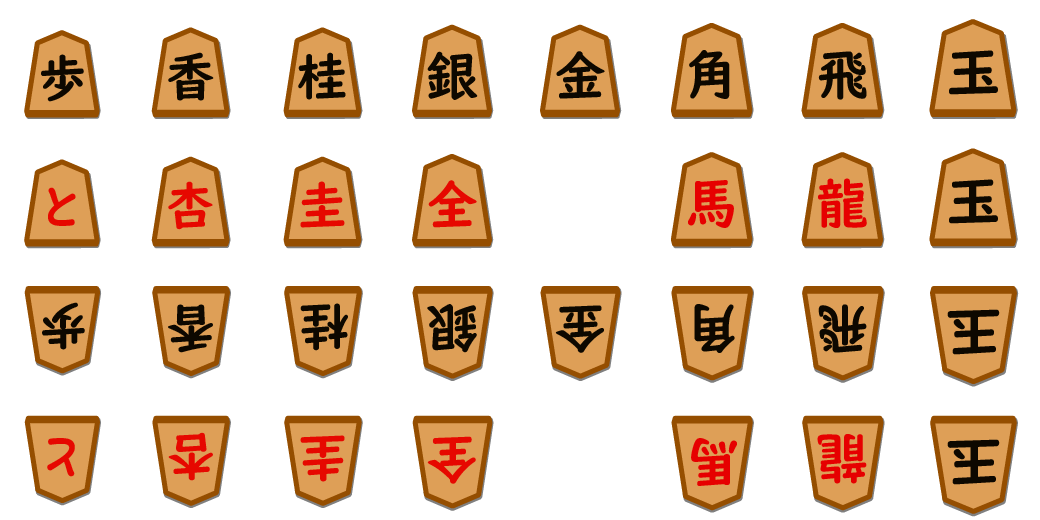
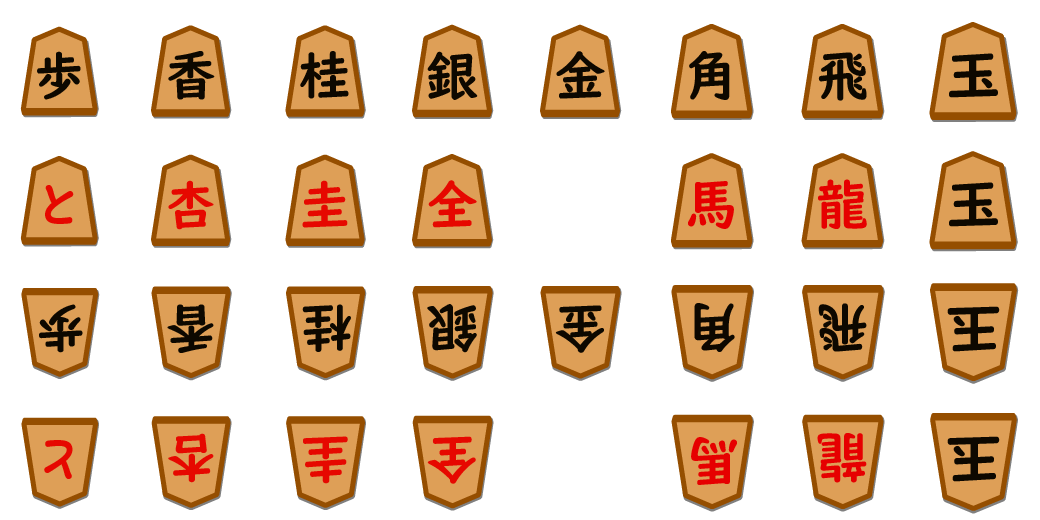
fix: piece sprite centering and updated assets
- PieceSprite: per-piece offsetX/offsetY in spriteMap for centering (default offsetX 8)
- Replace pieces.png with user-provided sprite (position tweaks)
- ShogiBoard: keep PIECE_OFFSET_Y_OWN_PX / PIECE_OFFSET_Y_OPPONENT_PX for vertical offset

diff --git a/apps/web/src/components/PieceSprite.tsx b/apps/web/src/components/PieceSprite.tsx
@@ -9,25 +9,25 @@ const SPRITE_URL = "/images/pieces.png";
 
 // pieces.png layout (130px tiles, 8 cols × 4 rows)
 //   row 0: viewer-side unpromoted   [P, L, N, S, G, B, R, K]
-//   row 1: viewer-side promoted     [+P, +L, +N, +S, +B, +R, (col6), (col7)] と杏圭全馬龍
-//   row 2: opponent-side unpromoted [same order]
-//   row 3: opponent-side promoted   [same order]
-// Rows 2/3 are dedicated gote (inverted) sprites; no rotation needed when orientationMode="sprite".
-const spriteMap: Record<string, { row: 0 | 1; col: number }> = {
-  P: { row: 0, col: 0 },
-  L: { row: 0, col: 1 },
-  N: { row: 0, col: 2 },
-  S: { row: 0, col: 3 },
-  G: { row: 0, col: 4 },
-  B: { row: 0, col: 5 },
-  R: { row: 0, col: 6 },
-  K: { row: 0, col: 7 },
-  "+P": { row: 1, col: 0 },
-  "+L": { row: 1, col: 1 },
-  "+N": { row: 1, col: 2 },
-  "+S": { row: 1, col: 3 },
-  "+B": { row: 1, col: 4 },
-  "+R": { row: 1, col: 5 },
+//   row 1: viewer-side promoted     [+P, +L, +N, +S, +B, +R, (col6), (col7)]
+//   row 2: opponent-side unpromoted / row 3: opponent-side promoted
+// offsetX: タイル内で駒を右にずらす量(px)。正で右。offsetY: タイル内で駒を上にずらす量(px)。正で上。
+type SpriteEntry = { row: 0 | 1; col: number; offsetX?: number; offsetY?: number };
+const spriteMap: Record<string, SpriteEntry> = {
+  P: { row: 0, col: 0, offsetX: -5, offsetY: 0 },
+  L: { row: 0, col: 1, offsetX: -3, offsetY: 0 },
+  N: { row: 0, col: 2, offsetX: 1, offsetY: 0 },
+  S: { row: 0, col: 3, offsetX: -2, offsetY: 0 },
+  G: { row: 0, col: 4, offsetX: -4, offsetY: 0 },
+  B: { row: 0, col: 5, offsetX: -2, offsetY: 0 },
+  R: { row: 0, col: 6, offsetX: -2, offsetY: 0 },
+  K: { row: 0, col: 7, offsetX: -1, offsetY: 0 },
+  "+P": { row: 1, col: 0, offsetX: -5, offsetY: 0 },
+  "+L": { row: 1, col: 1, offsetX: -3, offsetY: 0 },
+  "+N": { row: 1, col: 2, offsetX: 1, offsetY: 0 },
+  "+S": { row: 1, col: 3, offsetX: -2, offsetY: 0 },
+  "+B": { row: 1, col: 4, offsetX: -2, offsetY: 0 },
+  "+R": { row: 1, col: 5, offsetX: -2, offsetY: 0 },
 };
 
 const PLAYER_ROW_OFFSET: Record<"player" | "opponent", 0 | 2> = {
@@ -85,15 +85,16 @@ export const PieceSprite: React.FC<PieceSpriteProps> = ({
 
   const norm = isPromoted ? `+${baseChar.toUpperCase()}` : baseChar.toUpperCase();
   const fallbackKey = baseChar.toUpperCase();
-  const { row: baseRow, col } = spriteMap[norm] ?? spriteMap[fallbackKey] ?? spriteMap["P"];
+  const entry = spriteMap[norm] ?? spriteMap[fallbackKey] ?? spriteMap["P"];
+  const { row: baseRow, col, offsetX: tileOffsetX = 0, offsetY: tileOffsetY = 0 } = entry;
   const rowOffsetKey = orientationMode === "sprite" ? (isViewerPiece ? "player" : "opponent") : "player";
   const spriteRow = baseRow + PLAYER_ROW_OFFSET[rowOffsetKey];
 
   const scale = pieceSize / TILE_SIZE;
   const bgWidth = COLS * TILE_SIZE * scale;
   const bgHeight = ROWS * TILE_SIZE * scale;
-  const bgPosX = -col * TILE_SIZE * scale;
-  const bgPosY = -spriteRow * TILE_SIZE * scale;
+  const bgPosX = (-col * TILE_SIZE - tileOffsetX) * scale;
+  const bgPosY = (-spriteRow * TILE_SIZE - tileOffsetY) * scale;
 
   const left = originX + x * cell + (cell - pieceSize) / 2;
   const top = originY + y * cell + (cell - pieceSize) / 2 + shiftY;

diff --git a/apps/web/src/components/ShogiBoard.tsx b/apps/web/src/components/ShogiBoard.tsx
@@ -49,9 +49,9 @@ const BASE_CELL_SIZE = 50;
 const BASE_PIECE_SIZE = 49;
 const PIECE_SIZE_MULTIPLIER = 1.31; // 駒の表示倍率（盤上・持ち駒共通）
 /** 自分の駒の縦位置オフセット（px）。負で上方向 */
-const PIECE_OFFSET_Y_OWN_PX = -2.2;
+const PIECE_OFFSET_Y_OWN_PX = -3.4;
 /** 相手の駒の縦位置オフセット（px）。負で上方向 */
-const PIECE_OFFSET_Y_OPPONENT_PX = -4.6;
+const PIECE_OFFSET_Y_OPPONENT_PX = -3.9;
 const HAND_ORDER: PieceBase[] = ["P", "L", "N", "S", "G", "B", "R", "K"];
 const BASE_HAND_CELL_SIZE = 40;
 const BASE_HAND_PIECE_SIZE = 39;
